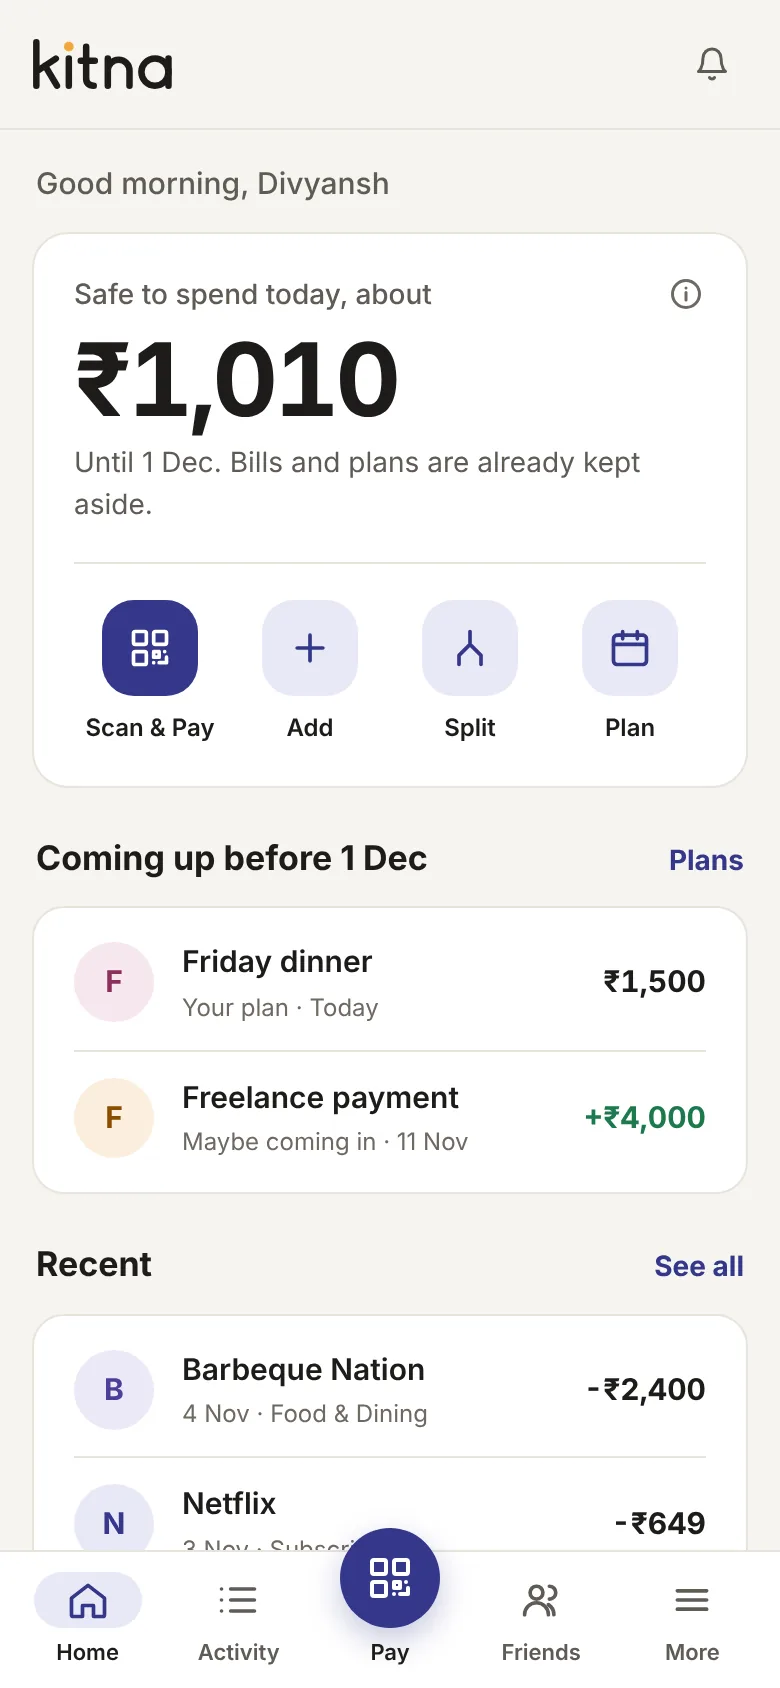
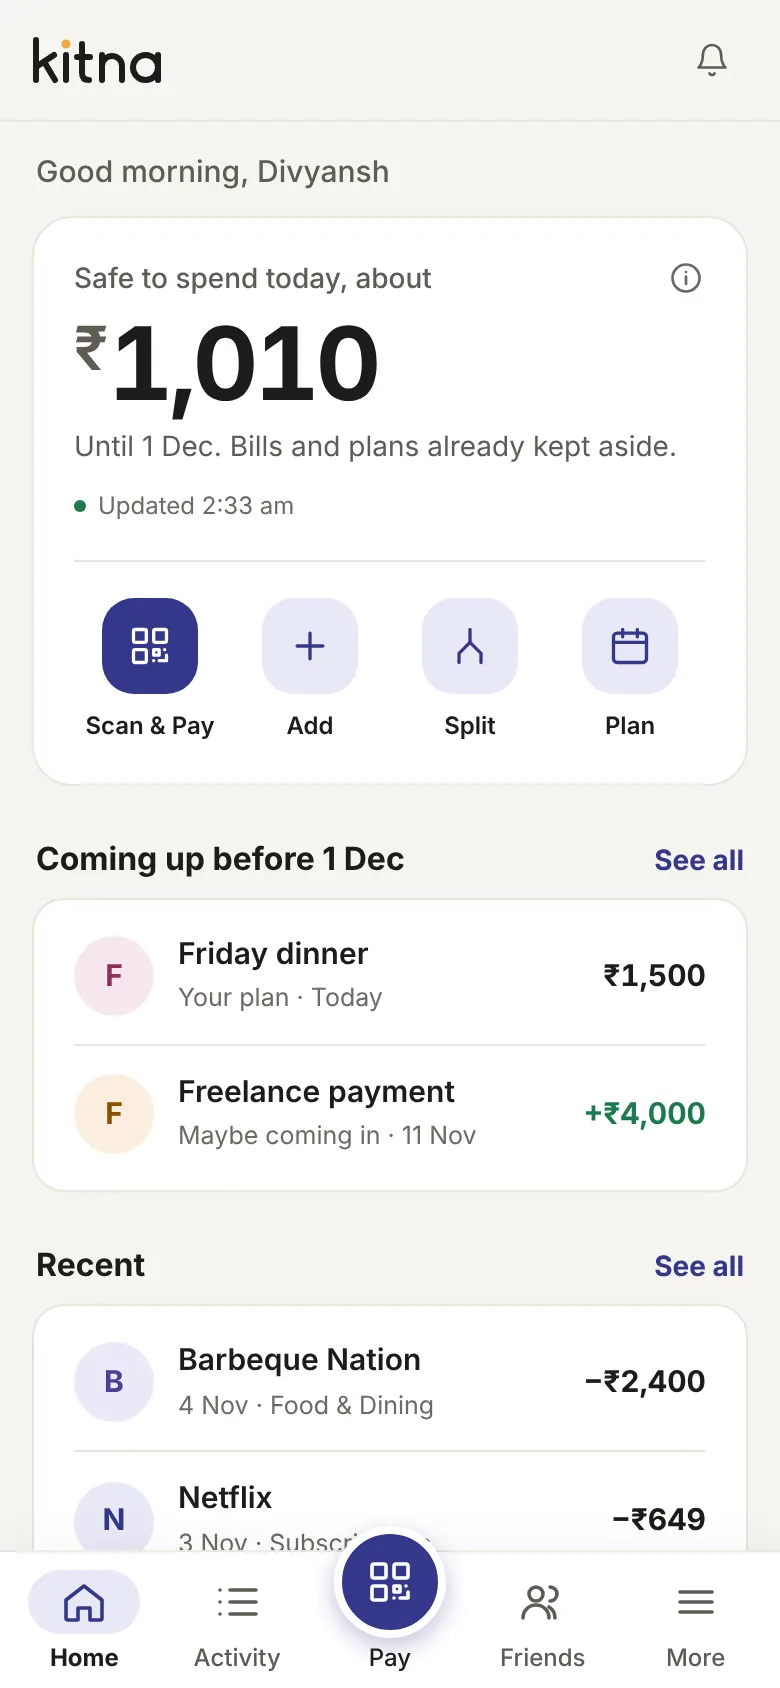
Polish pass: real tab bar metrics, sheets, honest "Updated" time, trust line
- Tab bar follows Material 3 / iOS sizes: 24px icons in a 56x32 pill,
  12px labels on one baseline; the Pay circle rises out of its slot so
  "Pay" lines up with the other labels.
- Every dialog is a bottom sheet on phones, with a grab handle and
  full-width buttons; toasts sit above the tab bar.
- Money: real minus signs, tabular digits, smaller rupee sign on the big
  number. Home shows "Updated 2:33 am" only after the server answers, and
  says so when offline.
- Scan & Pay buttons name the amount and the person ("Pay ₹120 to Chai
  Point"); errors say no money left the account; a failed payment explains
  the RBI 1-working-day refund rule.
- Grey loading rows instead of blank screens; press feedback on buttons;
  44px minimum buttons, 64px list rows, one spacing scale.
- Home ends with "Read-only. Kitna can't move your money or see your UPI
  PIN." linking to Privacy.

Claude-Session: https://claude.ai/code/session_01Cmwmb7F6HRxQKC4Pw1w8YW

diff --git a/flux/static/css/app.css b/flux/static/css/app.css
@@ -594,3 +594,79 @@ button.link { background: none; border: 0; cursor: pointer; font: inherit; }
 .link-inline { background: none; border: 0; padding: 0; font: inherit; color: var(--brand); font-weight: 650; cursor: pointer; text-decoration: underline; text-underline-offset: 2px; }
 .pay-amount { width: auto; min-width: 2ch; }
 .owed-row .item-actions { flex-wrap: nowrap; align-items: center; }
+
+/* ═══ Polish pass: one spacing system (4/8/12/16/24), real tab bar metrics, calm motion ═══ */
+html { -webkit-tap-highlight-color: transparent; }
+body { text-rendering: optimizeLegibility; }
+.num, .tx-amt, .hero-num, .month-v, .pay-big, .pay-amount { font-variant-numeric: tabular-nums; font-feature-settings: "tnum" 1; }
+
+/* Tab bar (Material 3 / iOS metrics): 24px icons in a 56×32 pill, 12px labels on one baseline.
+   The Pay circle rises out of its slot, so its label lines up with the others. */
+@media (max-width: 860px) {
+  .bottom-nav { height: calc(68px + env(safe-area-inset-bottom)); padding: 0 4px env(safe-area-inset-bottom); align-items: stretch;
+    box-shadow: 0 -1px 0 var(--line), 0 -6px 24px rgba(28, 27, 34, .04); border-top: 0; user-select: none; -webkit-user-select: none; }
+  .bottom-nav a { display: flex; flex-direction: column; align-items: center; justify-content: center; gap: 4px; padding: 6px 0 4px; color: var(--muted); font-size: 12px; line-height: 16px; font-weight: 550; }
+  .bottom-nav a .ni { position: relative; width: 56px; height: 32px; border-radius: 16px; display: grid; place-items: center; transition: background-color .15s; }
+  .bottom-nav a svg, .bottom-nav a:not(.pay) svg { width: 24px; height: 24px; padding: 0; background: none; border-radius: 0; box-sizing: border-box; }
+  .bottom-nav a.active { color: var(--text); font-weight: 700; }
+  .bottom-nav a.active:not(.pay) svg { background: none; }
+  .bottom-nav a.active .ni { background: var(--brand-soft); color: var(--brand); }
+  .bottom-nav a.pay .ni { background: none; }
+  .bottom-nav a.pay .pay-dot { position: absolute; left: 50%; bottom: -2px; transform: translateX(-50%); width: 56px; height: 56px; margin: 0; border-radius: 50%;
+    background: var(--brand); display: grid; place-items: center; border: 4px solid var(--surface); box-shadow: 0 4px 12px rgba(52, 55, 138, .30); }
+  .bottom-nav a.pay .pay-dot svg { color: var(--brand-ink); width: 24px; height: 24px; }
+  .bottom-nav a.pay.active .pay-dot { box-shadow: 0 0 0 3px var(--brand-soft), 0 4px 12px rgba(52, 55, 138, .30); }
+  .bottom-nav a:active .ni { transform: scale(.94); }
+  .main { padding: 12px 16px calc(104px + env(safe-area-inset-bottom)); }
+  .topbar-in { min-height: 56px; padding: 8px 16px; }
+  .logo-wm { height: 24px; }
+}
+@media (prefers-color-scheme: dark) { .bottom-nav { box-shadow: 0 -1px 0 var(--line); } }
+
+/* Sheets: every dialog slides up from the bottom on phones, like the system ones */
+@media (max-width: 860px) {
+  .modal-bg { place-items: end stretch; padding: 0; }
+  .modal { width: 100%; max-width: none; border-radius: 22px 22px 0 0; border-bottom: 0; padding: 26px 18px calc(18px + env(safe-area-inset-bottom)); max-height: 90vh; animation: up .2s ease-out; position: relative; }
+  .modal::before { content: ""; position: absolute; top: 8px; left: 50%; transform: translateX(-50%); width: 36px; height: 4px; border-radius: 2px; background: var(--line-2); }
+  .modal h2 { font-size: 19px; margin-bottom: 16px; }
+  .modal-foot .btn { flex: 1; min-height: 48px; }
+  .modal-foot .btn.danger-text { flex: 0 0 auto; }
+  .toasts { top: auto; bottom: calc(84px + env(safe-area-inset-bottom)); left: 16px; right: 16px; max-width: none; }
+}
+
+/* Press feedback: things you tap give way a little */
+.btn, .quick-ic, .menu-item, .person, .app-btn, .done-btn, .why-btn, .icon-link { transition: transform .08s ease, background-color .15s, border-color .15s; }
+.btn:active, .app-btn:active, .done-btn:active { transform: scale(.98); }
+.quick:active .quick-ic, .person:active .avatar { transform: scale(.94); }
+.menu-item:active, .tx-edit:active { background: var(--surface-2); }
+.btn { min-height: 44px; border-radius: 12px; }
+.btn.sm { min-height: 36px; }
+.btn.lg { min-height: 52px; border-radius: 14px; }
+
+/* Lists: 64px rows, 40px avatars, amounts right-aligned on one grid */
+.tx { min-height: 64px; gap: 12px; }
+.tx .avatar, .tx-icon { width: 40px; height: 40px; }
+.tx-sub { font-size: 12.5px; margin-top: 3px; }
+.tx-amt { font-size: 15px; font-weight: 650; text-align: right; }
+.tx-amt.green { color: var(--green); }
+
+/* Home */
+.home { gap: 16px; }
+.hero-num { display: flex; align-items: flex-start; gap: 2px; }
+.hero-num .cur { font-size: .6em; font-weight: 600; color: var(--muted); margin-top: .14em; }
+.hero-num.amber .cur { color: inherit; }
+.as-of { display: flex; align-items: center; gap: 6px; margin-top: 10px; font-size: 12px; color: var(--faint); }
+.dot-live { width: 6px; height: 6px; border-radius: 50%; background: var(--green); flex-shrink: 0; }
+.dot-live.wait { background: var(--amber); animation: pulse 1.2s ease-in-out infinite; }
+.dot-live.off { background: var(--red); }
+.trust { display: flex; align-items: center; justify-content: center; gap: 8px; font-size: 12.5px; color: var(--faint); padding: 8px 12px 4px; text-align: left; }
+.trust svg { width: 16px; height: 16px; color: var(--green); flex-shrink: 0; }
+.trust b { color: var(--muted); font-weight: 600; }
+.section-title { font-size: 16px; margin: 8px 2px 8px; }
+.hero-card { border-radius: 20px; }
+.card { border-radius: 16px; }
+
+/* Pay */
+.pay-flow .btn.primary.lg { font-size: 16px; }
+.pay-flow .btn:disabled { opacity: .45; }
+.trust { min-height: 44px; }

diff --git a/flux/static/js/pages/dashboard.js b/flux/static/js/pages/dashboard.js
@@ -14,12 +14,18 @@
   let early = api("/api/dashboard", { allow401: true }).catch(() => null);
 
   async function render(main, user) {
-    const content = el("div", { class: "stack narrow", style: { gap: "18px" } });
+    const content = el("div", { class: "stack narrow home" });
+    content.replaceChildren(el("div", { class: "hero-card" }, el("div", { class: "skeleton", style: { width: "40%", height: "14px" } }),
+      el("div", { class: "skeleton", style: { width: "60%", height: "48px", marginTop: "12px" } }), el("div", { class: "skeleton", style: { width: "70%", height: "13px", marginTop: "12px" } })),
+      window.Kitna.skeleton(3));
     main.replaceChildren(content);
     const load = async () => {
       const pre = early;
       early = null;
-      await window.Kitna.live("/api/dashboard", (d) => content.replaceChildren(...build(d, user).filter(Boolean)), pre);
+      try {
+        await window.Kitna.live("/api/dashboard", (d) => content.replaceChildren(...build(d, user).filter(Boolean)), pre);
+        markFresh(true);
+      } catch (e) { markFresh(false); throw e; }
     };
     onRefresh(load);
     await load();
@@ -141,6 +147,14 @@
     remindSlot.replaceChildren(card);
   }
 
+  // "Updated 2:25 am": only once the server has answered; saved numbers say so.
+  const asOfEl = el("div", { class: "as-of" }, el("span", { class: "dot-live wait" }), el("span", null, "Updating…"));
+  function markFresh(ok) {
+    asOfEl.firstChild.className = "dot-live" + (ok ? "" : " off");
+    asOfEl.lastChild.textContent = ok ? "Updated " + new Date().toLocaleTimeString("en-IN", { hour: "numeric", minute: "2-digit" })
+      : "Offline. Showing your last saved numbers.";
+  }
+
   function build(d, user) {
     const m = d.month;
     const sf = d.safe;
@@ -159,15 +173,17 @@
     const whyBtn = el("button", { class: "why-btn", type: "button", "aria-expanded": "false", title: "How is this worked out?",
       onclick: () => { why.hidden = !why.hidden; whyBtn.setAttribute("aria-expanded", String(!why.hidden)); } }, icon("info"));
 
-    const heroText = sf.status === "ok" ? `Until ${shortDate(sf.until)}. Bills and plans are already kept aside.` : sf.message;
+    const heroText = sf.status === "ok" ? `Until ${shortDate(sf.until)}. Bills and plans already kept aside.` : sf.message;
     const quick = (ic, label, fn) => el("button", { class: "quick", type: "button", onclick: fn }, el("span", { class: "quick-ic" }, icon(ic)), label);
     const hero = el("section", { class: "hero-card" },
       el("div", { class: "hero-top" },
         el("div", { class: "hero-label" }, sf.confirmed || sf.status === "setup" ? "Safe to spend today" : "Safe to spend today, about"),
         sf.status === "setup" ? null : whyBtn),
-      el("div", { class: "hero-num" + (sf.status === "ok" ? "" : " amber") }, sf.status === "setup" ? "—" : inr0(safe)),
+      el("div", { class: "hero-num num" + (sf.status === "ok" ? "" : " amber"), "aria-label": sf.status === "setup" ? "Not set up yet" : inr0(safe) + " safe to spend today" },
+        sf.status === "setup" ? "—" : [el("span", { class: "cur", "aria-hidden": "true" }, "₹"), el("span", { "aria-hidden": "true" }, inr0(safe).replace("₹", ""))]),
       el("div", { class: "hero-sub" }, heroText),
       why,
+      asOfEl,
       el("div", { class: "quick-row" },
         quick("qr", "Scan & Pay", () => { location.href = "/app/pay"; }),
         quick("plus", "Add", () => addTransactionModal("expense")),
@@ -203,7 +219,7 @@
       ...sf.plans.map((p) => ({ date: p.date, name: p.title, amount: p.amount, sub: p.kind === "income" ? (p.sure ? "Money coming in" : "Maybe coming in") : "Your plan", income: p.kind === "income" })),
       ...sf.bills.map((b) => ({ date: b.next_date, name: b.name, amount: b.amount, sub: b.cadence === "monthly" ? "Repeats every month" : "Repeats every week" })),
     ].sort((a, b) => a.date.localeCompare(b.date)).slice(0, 6);
-    const coming = sf.status === "setup" ? null : section("Coming up before " + shortDate(sf.until), el("a", { class: "link", href: "/app/plans" }, "Plans"),
+    const coming = sf.status === "setup" ? null : section("Coming up before " + shortDate(sf.until), el("a", { class: "link", href: "/app/plans" }, "See all"),
       el("div", { class: "card", style: { padding: "4px 20px" } }, upcoming.length
         ? el("div", { class: "tx-list" }, upcoming.map((u) => el("div", { class: "tx" }, avatar(u.name),
             el("div", { class: "tx-main" }, el("div", { class: "tx-title" }, u.name), el("div", { class: "tx-sub" }, `${u.sub} · ${dateFmt(u.date)}`)),
@@ -222,7 +238,9 @@
         el("div", null, el("div", { class: "tiny faint" }, "Money in"), el("div", { class: "month-v num green" }, inr0(m.income))),
         m.saved ? el("div", null, el("div", { class: "tiny faint" }, "Set aside"), el("div", { class: "month-v num" }, inr0(m.saved))) : null));
 
-    return [el("div", { class: "greet" }, greeting(user.name)), hero, reconnect, ...checks, ...asks, weekSlot, remindSlot, setupCard(d.setup), bankCard, drift, coming, recent, month];
+    const trust = el("a", { class: "trust", href: "/privacy" }, icon("shield"),
+      el("span", null, el("b", null, "Read-only. "), "Kitna can't move your money or see your UPI PIN."));
+    return [el("div", { class: "greet" }, greeting(user.name)), hero, reconnect, ...checks, ...asks, weekSlot, remindSlot, setupCard(d.setup), bankCard, drift, coming, recent, month, trust];
   }
 
   document.addEventListener("DOMContentLoaded", () => window.Kitna.boot(render));

diff --git a/flux/static/js/core.js b/flux/static/js/core.js
@@ -70,7 +70,7 @@
     svg.setAttribute("viewBox", "0 0 24 24");
     svg.setAttribute("fill", "none");
     svg.setAttribute("stroke", "currentColor");
-    svg.setAttribute("stroke-width", "2");
+    svg.setAttribute("stroke-width", "1.8");
     svg.setAttribute("stroke-linecap", "round");
     svg.setAttribute("stroke-linejoin", "round");
     svg.setAttribute("aria-hidden", "true");
@@ -92,8 +92,8 @@
 
   // ─── Formatting ───────────────────────────────────────────
   const inrFmt = new Intl.NumberFormat("en-IN", { maximumFractionDigits: 2 });
-  const inr = (v) => (v < 0 ? "-₹" : "₹") + inrFmt.format(Math.abs(Number(v) || 0));
-  const inr0 = (v) => (v < 0 ? "-₹" : "₹") + new Intl.NumberFormat("en-IN", { maximumFractionDigits: 0 }).format(Math.abs(Number(v) || 0));
+  const inr = (v) => (v < 0 ? "−₹" : "₹") + inrFmt.format(Math.abs(Number(v) || 0));
+  const inr0 = (v) => (v < 0 ? "−₹" : "₹") + new Intl.NumberFormat("en-IN", { maximumFractionDigits: 0 }).format(Math.abs(Number(v) || 0));
   const dateFmt = (iso) => {
     const d = new Date(iso + "T00:00:00");
     const today = new Date(); today.setHours(0, 0, 0, 0);
@@ -448,12 +448,11 @@
         el("div", { class: "top-actions" },
           bell,
           el("button", { type: "button", class: "avatar", title: USER.name, "aria-label": "More", onclick: moreMenu }, initials))));
+      const tab = (href, ic, label, extra) => el("a", Object.assign({ href, class: (href === "/app/pay" ? "pay " : "") + (path === href || (href === "#more" && inMenu) ? "active" : ""),
+        "aria-current": path === href ? "page" : null }, extra || {}),
+        el("span", { class: "ni" }, href === "/app/pay" ? el("span", { class: "pay-dot" }, icon(ic)) : icon(ic)), el("span", { class: "nl" }, label));
       const bottom = el("nav", { class: "bottom-nav", "aria-label": "Main" }, MOBILE_NAV.map(([href, ic, label]) =>
-        href === "#more"
-          ? el("a", { href: "#", class: inMenu ? "active" : null, onclick: (e) => { e.preventDefault(); moreMenu(); } }, icon(ic), label)
-          : href === "/app/pay"
-            ? el("a", { href, class: "pay" + (path === href ? " active" : "") }, el("span", { class: "pay-dot" }, icon(ic)), label)
-            : el("a", { href, class: path === href ? "active" : null, "aria-current": path === href ? "page" : null }, icon(ic), label)));
+        href === "#more" ? tab(href, ic, label, { href: "#", onclick: (e) => { e.preventDefault(); moreMenu(); }, "aria-haspopup": "dialog" }) : tab(href, ic, label)));
       document.body.append(top, main, bottom);
     } else {
       document.body.append(main);
@@ -463,6 +462,14 @@
     } catch (e) { err(e); }
     track("screen_opened");
     if (window.FluxVoice && location.pathname !== "/onboarding") window.FluxVoice.init(USER, { fab: false });
+  }
+
+  // Grey placeholder rows while the first data loads (never a blank screen).
+  function skeleton(rows = 4) {
+    return el("div", { class: "card list-card", "aria-busy": "true", "aria-label": "Loading" },
+      ...Array.from({ length: rows }, () => el("div", { class: "tx" }, el("div", { class: "skeleton", style: { width: "40px", height: "40px", borderRadius: "50%" } }),
+        el("div", { class: "tx-main" }, el("div", { class: "skeleton", style: { width: "55%", height: "14px" } }), el("div", { class: "skeleton", style: { width: "35%", height: "11px", marginTop: "8px" } })),
+        el("div", { class: "skeleton", style: { width: "56px", height: "14px" } }))));
   }
 
   function pageHead(title, subtitle, ...actions) {
@@ -475,7 +482,7 @@
     const isIn = t.kind === "income";
     const isSave = t.kind === "saving";
     const title = t.note || t.category;
-    const sign = isIn ? "+" : isSave ? (t.amount < 0 ? "+" : "→ ") : "-";
+    const sign = isIn ? "+" : isSave ? (t.amount < 0 ? "+" : "") : "−";  // a real minus sign, like a bank statement
     const amtCls = isIn ? "green" : isSave ? "brand" : "";
     // Only show a tag when it means something to the user (not where the data came from).
     const badge = t.source === "autosave" ? el("span", { class: "badge autosave" }, "set aside") : null;
@@ -673,7 +680,7 @@
 
   window.Kitna = {
     el, icon, api, download, toast, ok, err, modal, confirmBox, inr, inr0, dateFmt, todayISO, CAT_EMOJI, CAT_COLORS, avatar,
-    boot, pageHead, txRow, deleteTx, editTx, addTransactionModal, planModal, splitModal, friendModal, feedbackModal, push: pushApi, live, prefetch, cacheClear, refresh, onRefresh, logout, meta,
+    boot, pageHead, skeleton, txRow, deleteTx, editTx, addTransactionModal, planModal, splitModal, friendModal, feedbackModal, push: pushApi, live, prefetch, cacheClear, refresh, onRefresh, logout, meta,
     get user() { return USER; }, set user(u) { USER = u; }, get config() { return CONFIG; },
   };
 })();

diff --git a/flux/static/js/pages/pay.js b/flux/static/js/pages/pay.js
@@ -139,7 +139,9 @@
       const runCheck = () => {
         clearTimeout(t);
         const v = Number(amount.value);
-        payBtn.textContent = v > 0 ? `Pay ${inr(v)}` : "Pay";
+        const who = (d.name || d.vpa.split("@")[0]).split(" ").slice(0, 2).join(" ");
+        payBtn.textContent = v > 0 ? `Pay ${inr(v)} to ${who}` : "Enter an amount";
+        payBtn.disabled = !(v > 0);
         if (!(v > 0)) { check.replaceChildren(); return; }
         t = setTimeout(async () => {
           try {
@@ -159,7 +161,7 @@
         try {
           const r = await api("/api/pay/prepare", { method: "POST", body: { vpa: d.vpa, name: d.name, amount: amount.value, category: cat.value, note: note.value } });
           showHandoff(r, d);
-        } catch (ex) { err(ex); payBtn.disabled = false; }
+        } catch (ex) { err(new Error((ex.message || "Something went wrong.") + " No money has left your account.")); payBtn.disabled = false; }
       } },
         el("div", { class: "pay-who" }, avatar(d.name || d.vpa),
           el("div", { style: { minWidth: 0 } }, el("div", { class: "pay-name" }, d.name || d.vpa), el("div", { class: "tiny faint" }, d.vpa))),
@@ -182,10 +184,11 @@
       let openers;
       if (IS_ANDROID) {
         openers = el("div", { class: "stack", style: { gap: "8px" } },
-          el("a", { class: "btn primary lg block", href: r.links.generic, onclick: markOpened }, "Open UPI app"),
+          el("a", { class: "btn primary lg block", href: r.links.generic, onclick: markOpened }, `Pay ${inr(r.amount)} in your UPI app`),
           el("div", { class: "app-grid" }, r.links.apps.map((a) => el("a", { class: "app-btn", href: a.android, onclick: markOpened }, a.name))));
       } else if (IS_IOS) {
-        openers = el("div", { class: "app-grid" }, r.links.apps.map((a) => el("a", { class: "app-btn", href: a.ios, onclick: markOpened }, a.name)));
+        openers = el("div", { class: "stack", style: { gap: "8px" } }, el("div", { class: "tiny faint", style: { textAlign: "center" } }, "Choose your UPI app"),
+          el("div", { class: "app-grid" }, r.links.apps.map((a) => el("a", { class: "app-btn", href: a.ios, onclick: markOpened }, a.name))));
       } else {
         openers = el("div", { class: "notice info" }, el("div", null, "UPI apps open on phones. Pay ", el("b", null, r.vpa), " from your phone, then come back and tap Yes.",
           el("div", { style: { marginTop: "8px" } }, el("button", { class: "btn sm", type: "button", onclick: copy }, "Copy UPI ID"))));
@@ -198,7 +201,8 @@
         try {
           await api(`/api/pay/${r.payment_id}/confirm`, { method: "POST", body: { status } });
           if (status === "paid") { ok(`Logged ${inr(r.amount)} to ${r.name}.`); setTimeout(() => (location.href = "/app"), 900); }
-          else { ok("Okay, nothing was logged."); history.replaceState(null, "", "/app/pay"); startScreen(); }
+          else if (status === "failed") { ok("Okay, nothing was logged. If your bank took the money anyway, it must come back within 1 working day (RBI rule)."); history.replaceState(null, "", "/app/pay"); startScreen(); }
+          else { ok("Cancelled. Nothing was logged."); history.replaceState(null, "", "/app/pay"); startScreen(); }
         } catch (e) { err(e); }
       }
       document.addEventListener("visibilitychange", () => {
@@ -206,7 +210,7 @@
       });
       area.replaceChildren(
         el("div", { class: "pay-sum" },
-          el("div", { class: "tiny faint" }, "Paying"),
+          el("div", { class: "tiny faint" }, "You're paying"),
           el("div", { class: "pay-big num" }, inr(r.amount)),
           el("div", { class: "small muted" }, r.name, " · ", r.vpa)),
         openers,

diff --git a/flux/static/js/pages/friends.js b/flux/static/js/pages/friends.js
@@ -3,7 +3,7 @@
   const { el, icon, api, inr0, inr, dateFmt, avatar, pageHead, onRefresh, ok, err, confirmBox, friendModal, splitModal } = window.Kitna;
 
   async function render(main) {
-    const content = el("div", { class: "stack narrow", style: { gap: "18px" } });
+    const content = el("div", { class: "stack narrow", style: { gap: "16px" } }, window.Kitna.skeleton(3));
     main.replaceChildren(pageHead("Friends", "Ticked off by itself when the UPI payment arrives."), content);
     const load = () => window.Kitna.live("/api/friends", (d) => content.replaceChildren(...build(d).filter(Boolean)));
     onRefresh(load);
@@ -48,7 +48,7 @@
         onclick: () => { chosen = t; document.querySelector(".modal-bg .modal-foot .btn.primary").click(); } },
         avatar(t.note || t.category), el("div", { class: "tx-main" }, el("div", { class: "tx-title" }, t.note || t.category),
           el("div", { class: "tx-sub" }, dateFmt(t.date) + " · " + t.category)),
-        el("div", { class: "tx-amt" }, "-" + inr(t.amount)))));
+        el("div", { class: "tx-amt" }, "−" + inr(t.amount)))));
     const v = await window.Kitna.modal("Which payment?", list, [
       { label: "Cancel", value: null, cls: "ghost" },
       { label: "Next", submit: true, cls: "primary", value: () => chosen },
@@ -64,7 +64,7 @@
         el("div", { class: "tx-main" },
           el("div", { class: "tx-title wrap" }, r.person),
           el("div", { class: "tx-sub" }, [r.note, dateFmt(r.date)].filter(Boolean).join(" · "))),
-        el("div", { class: "tx-amt" + (they ? " in" : "") }, (they ? "+" : "-") + inr0(r.amount))),
+        el("div", { class: "tx-amt" + (they ? " in" : "") }, (they ? "+" : "−") + inr0(r.amount))),
       r.settled ? null : el("div", { class: "item-actions" },
         they ? el("button", { class: "btn sm", onclick: () => remind(r) }, icon("share"), "Remind") : null,
         el("button", { class: "btn sm", onclick: () => settle(r) }, icon("check"), they ? "Paid me" : "I paid"),

diff --git a/flux/static/js/pages/transactions.js b/flux/static/js/pages/transactions.js
@@ -7,7 +7,7 @@
   async function render(main) {
     const m = await meta();
     const state = { page: 1, kind: "", category: "", q: "", from: "", to: "" };
-    const list = el("div", { class: "tx-list" });
+    const list = el("div", { class: "tx-list" }, ...window.Kitna.skeleton(5).children);
     const more = el("button", { class: "btn block", style: { marginTop: "12px" } }, "Load more");
     const kindSeg = el("div", { class: "seg full" });
     [["", "All"], ["expense", "Spent"], ["income", "Received"], ["saving", "Set aside"]].forEach(([k, label]) => {

diff --git a/flux/static/js/pages/plans.js b/flux/static/js/pages/plans.js
@@ -64,7 +64,7 @@
   let early = api("/api/plans", { allow401: true }).catch(() => null);
 
   async function render(main) {
-    const box = el("div", { class: "stack narrow" });
+    const box = el("div", { class: "stack narrow" }, window.Kitna.skeleton(2));
     main.replaceChildren(pageHead("Plans", "What's coming, so today's number is real. Tap a plan to edit it.",
       el("button", { class: "btn primary", onclick: () => planModal() }, icon("plus"), "Add")), box);
     let me = { user: window.Kitna.user };
